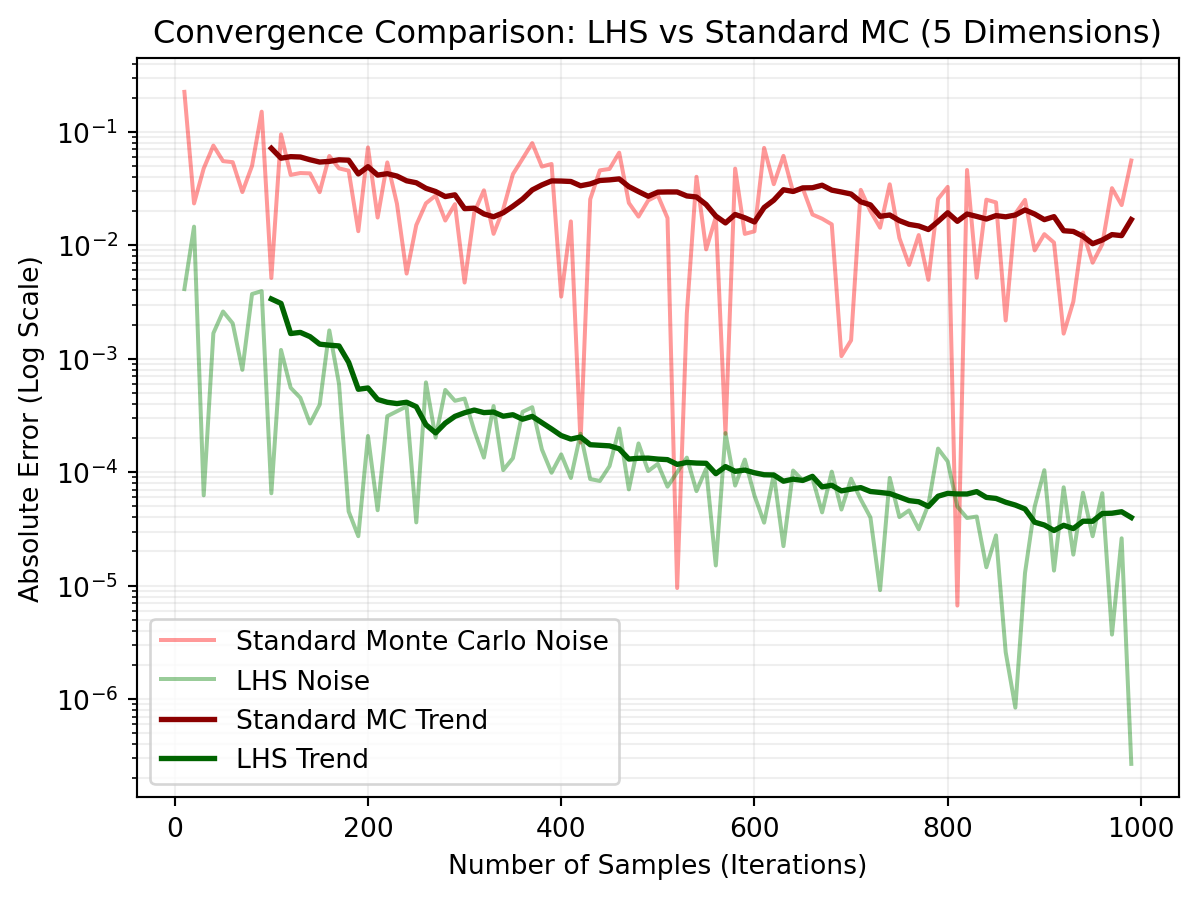
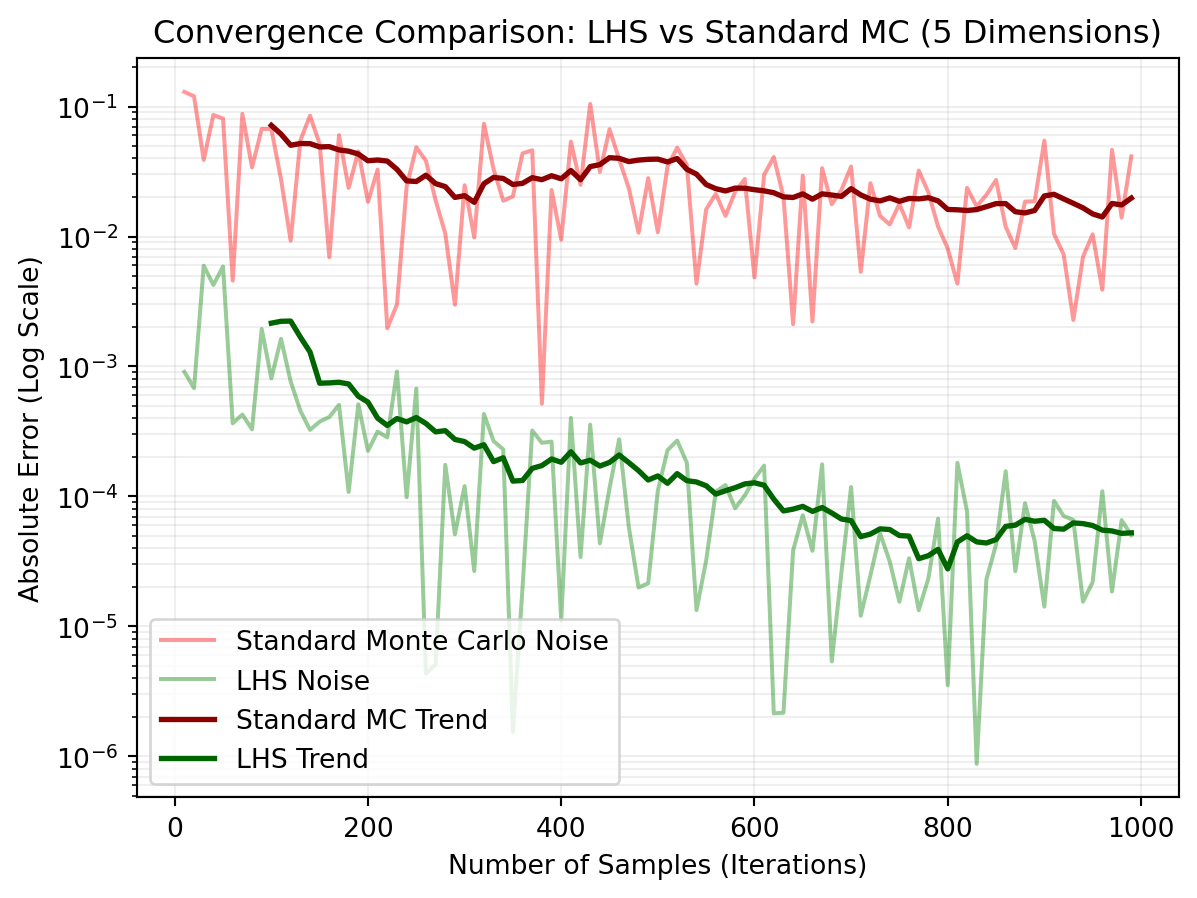
Started chapter on discrete events

diff --git a/_book/monte_carlo.html b/_book/monte_carlo.html
@@ -368,7 +368,7 @@ Figure&nbsp;3.1: Example of Monte-Carlo simulation to calculate <span class="mat
 </figure>
 </div>
 <p>Let’s use some code to make this more concrete:</p>
-<div id="07b7b86e" class="cell" data-execution_count="1">
+<div id="120f2f89" class="cell" data-execution_count="1">
 <div class="code-copy-outer-scaffold"><div class="sourceCode cell-code" id="cb1"><pre class="sourceCode python code-with-copy"><code class="sourceCode python"><span id="cb1-1"><a href="#cb1-1" aria-hidden="true" tabindex="-1"></a><span class="im">import</span> random</span>
 <span id="cb1-2"><a href="#cb1-2" aria-hidden="true" tabindex="-1"></a><span class="im">import</span> math</span>
 <span id="cb1-3"><a href="#cb1-3" aria-hidden="true" tabindex="-1"></a></span>
@@ -398,8 +398,8 @@ Figure&nbsp;3.1: Example of Monte-Carlo simulation to calculate <span class="mat
 <span id="cb1-27"><a href="#cb1-27" aria-hidden="true" tabindex="-1"></a>N <span class="op">=</span> <span class="dv">100000</span>  <span class="co"># 100,000 darts</span></span>
 <span id="cb1-28"><a href="#cb1-28" aria-hidden="true" tabindex="-1"></a>estimated_pi <span class="op">=</span> estimate_pi_monte_carlo(N)</span>
 <span id="cb1-29"><a href="#cb1-29" aria-hidden="true" tabindex="-1"></a>estimated_pi</span></code></pre></div><button title="Copy to Clipboard" class="code-copy-button"><i class="bi"></i></button></div>
-<div class="cell-output cell-output-display" data-execution_count="71">
-<pre><code>3.1516</code></pre>
+<div class="cell-output cell-output-display" data-execution_count="1">
+<pre><code>3.14468</code></pre>
 </div>
 </div>
 <p>In this code, we make use of the modeling fact that points <span class="math inline">\((x,y)\)</span> inside of the circle satisfy <span class="math inline">\(x^2+y^2\le 1\)</span>.</p>
@@ -504,7 +504,7 @@ s=\sqrt{\frac{1}{n-1}\sum_{i=1}^n (X_i - \bar{X}_n)}
 CI=\bar{X}_n \pm \left(z_{\alpha/2}\times\frac{s}{\sqrt{n}}\right)
 \]</span></p>
 <p>where <span class="math inline">\(z_{\alpha/2}\)</span> represents the <span class="math inline">\(\alpha/2\)</span>-level quantile of the standard normal distribution. As an example, consider the following implementation for the estimate of <span class="math inline">\(\pi\)</span> using Python code:</p>
-<div id="3a2639ee" class="cell" data-execution_count="2">
+<div id="b5e1dad9" class="cell" data-execution_count="2">
 <div class="code-copy-outer-scaffold"><div class="sourceCode cell-code" id="cb3"><pre class="sourceCode python code-with-copy"><code class="sourceCode python"><span id="cb3-1"><a href="#cb3-1" aria-hidden="true" tabindex="-1"></a><span class="im">import</span> numpy <span class="im">as</span> np</span>
 <span id="cb3-2"><a href="#cb3-2" aria-hidden="true" tabindex="-1"></a><span class="im">import</span> scipy.stats <span class="im">as</span> stats</span>
 <span id="cb3-3"><a href="#cb3-3" aria-hidden="true" tabindex="-1"></a></span>
@@ -535,8 +535,8 @@ CI=\bar{X}_n \pm \left(z_{\alpha/2}\times\frac{s}{\sqrt{n}}\right)
 <span id="cb3-28"><a href="#cb3-28" aria-hidden="true" tabindex="-1"></a><span class="bu">print</span>(<span class="ss">f"Estimate: </span><span class="sc">{</span>mu<span class="sc">:.4f}</span><span class="ss">"</span>)</span>
 <span id="cb3-29"><a href="#cb3-29" aria-hidden="true" tabindex="-1"></a><span class="bu">print</span>(<span class="ss">f"95% CI:   [</span><span class="sc">{</span>lower<span class="sc">:.4f}</span><span class="ss">, </span><span class="sc">{</span>upper<span class="sc">:.4f}</span><span class="ss">]"</span>)</span></code></pre></div><button title="Copy to Clipboard" class="code-copy-button"><i class="bi"></i></button></div>
 <div class="cell-output cell-output-stdout">
-<pre><code>Estimate: 3.1468
-95% CI:   [3.1147, 3.1789]</code></pre>
+<pre><code>Estimate: 3.1272
+95% CI:   [3.0948, 3.1596]</code></pre>
 </div>
 </div>
 </section>
@@ -583,7 +583,7 @@ I=\int_0^1 e^{x^2} dx
 \int_0^1 (1+x^2)dx = \left[x+\frac{x^3}{3}\right]_0^1=1+\frac{1}{3}=1.3333\dots
 \]</span></p>
 <p>We will now estimate both quantities in the same loop to calculate the controlled estimate.</p>
-<div id="e5a8cb76" class="cell" data-execution_count="3">
+<div id="f82ba7fe" class="cell" data-execution_count="3">
 <div class="code-copy-outer-scaffold"><div class="sourceCode cell-code" id="cb5"><pre class="sourceCode python code-with-copy"><code class="sourceCode python"><span id="cb5-1"><a href="#cb5-1" aria-hidden="true" tabindex="-1"></a><span class="im">import</span> numpy <span class="im">as</span> np</span>
 <span id="cb5-2"><a href="#cb5-2" aria-hidden="true" tabindex="-1"></a><span class="im">import</span> matplotlib.pyplot <span class="im">as</span> plt</span>
 <span id="cb5-3"><a href="#cb5-3" aria-hidden="true" tabindex="-1"></a></span>
@@ -620,7 +620,7 @@ I=\int_0^1 e^{x^2} dx
 <span id="cb5-34"><a href="#cb5-34" aria-hidden="true" tabindex="-1"></a>    }</span></code></pre></div><button title="Copy to Clipboard" class="code-copy-button"><i class="bi"></i></button></div>
 </div>
 <p>Let’s now run the code for 10000 iterations and compare the results:</p>
-<div id="31e66a0c" class="cell" data-execution_count="4">
+<div id="3ca66f2e" class="cell" data-execution_count="4">
 <div class="code-copy-outer-scaffold"><div class="sourceCode cell-code" id="cb6"><pre class="sourceCode python code-with-copy"><code class="sourceCode python"><span id="cb6-1"><a href="#cb6-1" aria-hidden="true" tabindex="-1"></a>N <span class="op">=</span> <span class="dv">10000</span></span>
 <span id="cb6-2"><a href="#cb6-2" aria-hidden="true" tabindex="-1"></a>results <span class="op">=</span> simulation_control_variates(N)</span>
 <span id="cb6-3"><a href="#cb6-3" aria-hidden="true" tabindex="-1"></a></span>
@@ -643,14 +643,14 @@ I=\int_0^1 e^{x^2} dx
 <div class="cell-output cell-output-stdout">
 <pre><code>--- Results with N=10,000 ---
 True Value:               1.462652
-Naive MC Estimate:        1.461851 (Error: 0.000800)
-Control Variate Estimate: 1.462823 (Error: 0.000171)
+Naive MC Estimate:        1.467357 (Error: 0.004705)
+Control Variate Estimate: 1.461978 (Error: 0.000674)
 
 --- Variance Analysis ---
-Correlation (X, Y):       0.9915
-Naive Variance:           0.225745
-CV Variance:              0.003822
-Variance Reduction:       59.1x lower variance</code></pre>
+Correlation (X, Y):       0.9914
+Naive Variance:           0.224994
+CV Variance:              0.003840
+Variance Reduction:       58.6x lower variance</code></pre>
 </div>
 </div>
 <p>As can be seen, the variance reduction achieved by the control variates method is in this case around 60x, which means that running 10,000 iterations using the control variates method is <em>as good as running classical MC with 600,000 iterations</em>.</p>
@@ -676,7 +676,7 @@ E_p[f(x)]=\int f(x)p(x)dx
 \hat{I}=\frac{1}{n}\sum_{i=1}^n f(x_i)\cdot\frac{p(x_i)}{q(x_i)}=\frac{1}{n}\sum_{i=1}^n w_i f(x_i)
 \tag{3.8}\]</span></span></p>
 <p>Note that our samples now come from <span class="math inline">\(q(x)\)</span> instead of <span class="math inline">\(p(x)\)</span> (because we sample from the biased distribution). Let’s now consider as an example a five-sigma event under a standard normal distribution governed by the probability <span class="math inline">\(P(X&gt;5)\)</span>, where the true probability is about <span class="math inline">\(2.87\times 10^{-7}\)</span>. In the real world, the true probability distribution is <span class="math inline">\(N(0,1)\)</span>. Now we can sample from a biased distribution by moving the mean: <span class="math inline">\(N(5,1)\)</span>. In this distribution, events <span class="math inline">\(X&gt;5\)</span> happen roughly 50% of the time.</p>
-<div id="676654ce" class="cell" data-execution_count="5">
+<div id="c9c938e9" class="cell" data-execution_count="5">
 <div class="code-copy-outer-scaffold"><div class="sourceCode cell-code" id="cb8"><pre class="sourceCode python code-with-copy"><code class="sourceCode python"><span id="cb8-1"><a href="#cb8-1" aria-hidden="true" tabindex="-1"></a><span class="im">import</span> numpy <span class="im">as</span> np</span>
 <span id="cb8-2"><a href="#cb8-2" aria-hidden="true" tabindex="-1"></a><span class="im">import</span> scipy.stats <span class="im">as</span> stats</span>
 <span id="cb8-3"><a href="#cb8-3" aria-hidden="true" tabindex="-1"></a><span class="im">import</span> matplotlib.pyplot <span class="im">as</span> plt</span>
@@ -708,7 +708,7 @@ E_p[f(x)]=\int f(x)p(x)dx
 <span id="cb8-29"><a href="#cb8-29" aria-hidden="true" tabindex="-1"></a>    <span class="cf">return</span> prob_naive, var_naive, prob_is, var_is</span></code></pre></div><button title="Copy to Clipboard" class="code-copy-button"><i class="bi"></i></button></div>
 </div>
 <p>In this code, we compare the probability estimates and the variances obtained by standard MC and importance sampling.</p>
-<div id="b7ffe756" class="cell" data-execution_count="6">
+<div id="286de8cb" class="cell" data-execution_count="6">
 <div class="code-copy-outer-scaffold"><div class="sourceCode cell-code" id="cb9"><pre class="sourceCode python code-with-copy"><code class="sourceCode python"><span id="cb9-1"><a href="#cb9-1" aria-hidden="true" tabindex="-1"></a>N <span class="op">=</span> <span class="dv">10000</span> <span class="co"># Only 10,000 samples (Small for a rare event!)</span></span>
 <span id="cb9-2"><a href="#cb9-2" aria-hidden="true" tabindex="-1"></a>target <span class="op">=</span> <span class="dv">5</span></span>
 <span id="cb9-3"><a href="#cb9-3" aria-hidden="true" tabindex="-1"></a></span>
@@ -732,8 +732,8 @@ E_p[f(x)]=\int f(x)p(x)dx
 True Probability: 0.0000002867
 Naive MC Estimate: 0.0000000000
 Naive Variance:    0.0000000000 (Likely zero if no hits occurred)
-Imp. Samp Estimate:0.0000002871
-Imp. Samp Variance:0.00000000000000004675
+Imp. Samp Estimate:0.0000002886
+Imp. Samp Variance:0.00000000000000004709
 Naive method failed completely (0 hits). Importance Sampling is infinitely better here.</code></pre>
 </div>
 </div>
@@ -787,7 +787,7 @@ Naive method failed completely (0 hits). Importance Sampling is infinitely bette
 <p>In summary, stratified sampling using proportional strata is always equal to or better than standard sampling because it eliminates the variance caused by the variability in sampling proportions across strata with different means.</p>
 <p><strong>Example</strong></p>
 <p>As an example, let’s integrate <span class="math inline">\(f(x)=e^x\)</span> in the interval <span class="math inline">\([0,1]\)</span>. For this, we will define <span class="math inline">\(H\)</span> equally-spaced strata in this interval.</p>
-<div id="c3cabb95" class="cell" data-execution_count="7">
+<div id="55f4fd0e" class="cell" data-execution_count="7">
 <div class="code-copy-outer-scaffold"><div class="sourceCode cell-code" id="cb11"><pre class="sourceCode python code-with-copy"><code class="sourceCode python"><span id="cb11-1"><a href="#cb11-1" aria-hidden="true" tabindex="-1"></a><span class="im">import</span> numpy <span class="im">as</span> np</span>
 <span id="cb11-2"><a href="#cb11-2" aria-hidden="true" tabindex="-1"></a><span class="im">import</span> matplotlib.pyplot <span class="im">as</span> plt</span>
 <span id="cb11-3"><a href="#cb11-3" aria-hidden="true" tabindex="-1"></a></span>
@@ -808,7 +808,7 @@ Naive method failed completely (0 hits). Importance Sampling is infinitely bette
 <span id="cb11-18"><a href="#cb11-18" aria-hidden="true" tabindex="-1"></a>    <span class="cf">return</span> est_naive, est_stratified</span></code></pre></div><button title="Copy to Clipboard" class="code-copy-button"><i class="bi"></i></button></div>
 </div>
 <p>We now run the experiment multiple times to determine the variance of the method. Because stratified samples are not iid, we need to repeat the experiment to get an estimate of its variance:</p>
-<div id="b7da89b5" class="cell" data-execution_count="8">
+<div id="02d245d0" class="cell" data-execution_count="8">
 <div class="code-copy-outer-scaffold"><div class="sourceCode cell-code" id="cb12"><pre class="sourceCode python code-with-copy"><code class="sourceCode python"><span id="cb12-1"><a href="#cb12-1" aria-hidden="true" tabindex="-1"></a>experiments <span class="op">=</span> <span class="dv">1000</span></span>
 <span id="cb12-2"><a href="#cb12-2" aria-hidden="true" tabindex="-1"></a>N <span class="op">=</span> <span class="dv">100</span> <span class="co"># Samples per experiment</span></span>
 <span id="cb12-3"><a href="#cb12-3" aria-hidden="true" tabindex="-1"></a></span>
@@ -862,10 +862,10 @@ Naive method failed completely (0 hits). Importance Sampling is infinitely bette
 <div class="cell-output cell-output-stdout">
 <pre><code>True Value: 1.718282
 ------------------------------
-Naive MC Variance (across 1000 runs):      0.00233631
-Stratified MC Variance (across 1000 runs): 0.00000027
+Naive MC Variance (across 1000 runs):      0.00247203
+Stratified MC Variance (across 1000 runs): 0.00000028
 ------------------------------
-Variance Reduction Factor: 8775.3x</code></pre>
+Variance Reduction Factor: 8754.6x</code></pre>
 </div>
 <div class="cell-output cell-output-display">
 <div>
@@ -890,7 +890,7 @@ Variance Reduction Factor: 8775.3x</code></pre>
 <li>Based on these permutations, we assign the intervals to the samples.</li>
 <li>To avoid each sample to be exactly at the center, we add a random jitter to each point.</li>
 </ol>
-<div id="c5b3eecf" class="cell" data-execution_count="9">
+<div id="dfb6d4cf" class="cell" data-execution_count="9">
 <div class="code-copy-outer-scaffold"><div class="sourceCode cell-code" id="cb14"><pre class="sourceCode python code-with-copy"><code class="sourceCode python"><span id="cb14-1"><a href="#cb14-1" aria-hidden="true" tabindex="-1"></a><span class="im">import</span> numpy <span class="im">as</span> np</span>
 <span id="cb14-2"><a href="#cb14-2" aria-hidden="true" tabindex="-1"></a><span class="im">import</span> matplotlib.pyplot <span class="im">as</span> plt</span>
 <span id="cb14-3"><a href="#cb14-3" aria-hidden="true" tabindex="-1"></a></span>
@@ -907,7 +907,7 @@ Variance Reduction Factor: 8775.3x</code></pre>
 <span id="cb14-14"><a href="#cb14-14" aria-hidden="true" tabindex="-1"></a>    <span class="cf">return</span> samples</span></code></pre></div><button title="Copy to Clipboard" class="code-copy-button"><i class="bi"></i></button></div>
 </div>
 <p>In two dimensions, this would look like the following:</p>
-<div id="2a5e79af" class="cell" data-execution_count="10">
+<div id="5646b687" class="cell" data-execution_count="10">
 <div class="code-copy-outer-scaffold"><div class="sourceCode cell-code" id="cb15"><pre class="sourceCode python code-with-copy"><code class="sourceCode python"><span id="cb15-1"><a href="#cb15-1" aria-hidden="true" tabindex="-1"></a>N <span class="op">=</span> <span class="dv">10</span> <span class="co"># 10 samples</span></span>
 <span id="cb15-2"><a href="#cb15-2" aria-hidden="true" tabindex="-1"></a>D <span class="op">=</span> <span class="dv">2</span>  <span class="co"># 2 dimensions</span></span>
 <span id="cb15-3"><a href="#cb15-3" aria-hidden="true" tabindex="-1"></a></span>
@@ -955,7 +955,7 @@ Variance Reduction Factor: 8775.3x</code></pre>
 f(\mathbf{x})=\sum_{i=1}^5 x_i^2
 \]</span></p>
 <p>in the interval <span class="math inline">\([-1,1]\)</span> for each dimension <span class="math inline">\(x_i\)</span>. For this, we will use the standard latin hypersquare sampling implementation of the SciPy library <code>scipy.stats.qmc</code>.</p>
-<div id="41cc5bda" class="cell" data-execution_count="11">
+<div id="253c7c98" class="cell" data-execution_count="11">
 <div class="code-copy-outer-scaffold"><div class="sourceCode cell-code" id="cb16"><pre class="sourceCode python code-with-copy"><code class="sourceCode python"><span id="cb16-1"><a href="#cb16-1" aria-hidden="true" tabindex="-1"></a><span class="im">import</span> numpy <span class="im">as</span> np</span>
 <span id="cb16-2"><a href="#cb16-2" aria-hidden="true" tabindex="-1"></a><span class="im">import</span> matplotlib.pyplot <span class="im">as</span> plt</span>
 <span id="cb16-3"><a href="#cb16-3" aria-hidden="true" tabindex="-1"></a><span class="im">from</span> scipy.stats <span class="im">import</span> qmc</span>
@@ -986,7 +986,7 @@ f(\mathbf{x})=\sum_{i=1}^5 x_i^2
 <span id="cb16-28"><a href="#cb16-28" aria-hidden="true" tabindex="-1"></a>    errors_lhs.append(<span class="bu">abs</span>(lhs_estimate <span class="op">-</span> true_mean))</span></code></pre></div><button title="Copy to Clipboard" class="code-copy-button"><i class="bi"></i></button></div>
 </div>
 <p>Note that the <code>LatinHypercube</code> sampler outputs samples in the interval <span class="math inline">\([0,1]\)</span> which need so be scaled to <span class="math inline">\([-1,1]\)</span> using the scaler <code>qmc.scale</code>. Let’s now visualize the results:</p>
-<div id="062e9ae1" class="cell" data-execution_count="12">
+<div id="44fd1750" class="cell" data-execution_count="12">
 <div class="code-copy-outer-scaffold"><div class="sourceCode cell-code" id="cb17"><pre class="sourceCode python code-with-copy"><code class="sourceCode python"><span id="cb17-1"><a href="#cb17-1" aria-hidden="true" tabindex="-1"></a>plt.semilogy(sample_sizes, errors_mc, color<span class="op">=</span><span class="st">'red'</span>, alpha<span class="op">=</span><span class="fl">0.4</span>, label<span class="op">=</span><span class="st">'Standard Monte Carlo Noise'</span>)</span>
 <span id="cb17-2"><a href="#cb17-2" aria-hidden="true" tabindex="-1"></a>plt.semilogy(sample_sizes, errors_lhs, color<span class="op">=</span><span class="st">'green'</span>, alpha<span class="op">=</span><span class="fl">0.4</span>, label<span class="op">=</span><span class="st">'LHS Noise'</span>)</span>
 <span id="cb17-3"><a href="#cb17-3" aria-hidden="true" tabindex="-1"></a></span>
@@ -1020,9 +1020,9 @@ f(\mathbf{x})=\sum_{i=1}^5 x_i^2
 </div>
 <div class="cell-output cell-output-stdout">
 <pre><code>Final Error (N=990):
-Standard MC Error: 0.055892
-LHS Error:         0.000000
-Improvement Factor: 208123.0x more accurate</code></pre>
+Standard MC Error: 0.041301
+LHS Error:         0.000050
+Improvement Factor: 820.1x more accurate</code></pre>
 </div>
 </div>
 <p>In this plot, we have used a logarithmic scale on the <span class="math inline">\(y\)</span>-axis to better see small errors. Additionally, a trend line is provided which is the moving average of the errors. As can be seen, the LHS errors are clearly lower than the standard MC errors and the method is about 100x more accurate than standard MC using the same number of samples.</p>
@@ -1186,7 +1186,7 @@ T(x'|x)=\alpha(x'|x)\cdot q(x'|x)
 <p><strong>Example</strong></p>
 <p>Let’s sample from a bimodal distribution which is a mixture of two Gaussians. Without MCMC, classical algorithms would frequently get stuck in one peak or the other. For instance, <span class="math inline">\(\pi(x)=0.3 N(-2,1) +
 0.7 N(2,1)\)</span>.</p>
-<div id="5ed01c97" class="cell" data-execution_count="13">
+<div id="ec34eada" class="cell" data-execution_count="13">
 <div class="code-copy-outer-scaffold"><div class="sourceCode cell-code" id="cb19"><pre class="sourceCode python code-with-copy"><code class="sourceCode python"><span id="cb19-1"><a href="#cb19-1" aria-hidden="true" tabindex="-1"></a><span class="im">import</span> numpy <span class="im">as</span> np</span>
 <span id="cb19-2"><a href="#cb19-2" aria-hidden="true" tabindex="-1"></a><span class="im">import</span> matplotlib.pyplot <span class="im">as</span> plt</span>
 <span id="cb19-3"><a href="#cb19-3" aria-hidden="true" tabindex="-1"></a><span class="im">import</span> scipy.stats <span class="im">as</span> stats</span>
@@ -1234,7 +1234,7 @@ T(x'|x)=\alpha(x'|x)\cdot q(x'|x)
 <span id="cb19-45"><a href="#cb19-45" aria-hidden="true" tabindex="-1"></a>    <span class="cf">return</span> np.array(samples), accepted_count <span class="op">/</span> n_samples</span></code></pre></div><button title="Copy to Clipboard" class="code-copy-button"><i class="bi"></i></button></div>
 </div>
 <p>Now let’s run a simulation for 10,000 steps.</p>
-<div id="06357062" class="cell" data-execution_count="14">
+<div id="8936a608" class="cell" data-execution_count="14">
 <div class="code-copy-outer-scaffold"><div class="sourceCode cell-code" id="cb20"><pre class="sourceCode python code-with-copy"><code class="sourceCode python"><span id="cb20-1"><a href="#cb20-1" aria-hidden="true" tabindex="-1"></a>N <span class="op">=</span> <span class="dv">10000</span></span>
 <span id="cb20-2"><a href="#cb20-2" aria-hidden="true" tabindex="-1"></a>start_x <span class="op">=</span> <span class="dv">0</span></span>
 <span id="cb20-3"><a href="#cb20-3" aria-hidden="true" tabindex="-1"></a>step_size <span class="op">=</span> <span class="fl">2.0</span> </span>

diff --git a/_book/discrete_event.html b/_book/discrete_event.html
@@ -7,7 +7,7 @@
 <meta name="viewport" content="width=device-width, initial-scale=1.0, user-scalable=yes">
 
 
-<title>4&nbsp; Discrete events – Simulation and Optimization: A Model-Driven Approach</title>
+<title>4&nbsp; Discrete events and Queuing Theory – Simulation and Optimization: A Model-Driven Approach</title>
 <style>
 code{white-space: pre-wrap;}
 span.smallcaps{font-variant: small-caps;}
@@ -71,6 +71,35 @@ ul.task-list li input[type="checkbox"] {
   }
 }</script>
 
+  <script src="https://cdnjs.cloudflare.com/polyfill/v3/polyfill.min.js?features=es6"></script>
+  <script src="https://cdn.jsdelivr.net/npm/mathjax@3/es5/tex-chtml-full.js" type="text/javascript"></script>
+
+<script type="text/javascript">
+const typesetMath = (el) => {
+  if (window.MathJax) {
+    // MathJax Typeset
+    window.MathJax.typeset([el]);
+  } else if (window.katex) {
+    // KaTeX Render
+    var mathElements = el.getElementsByClassName("math");
+    var macros = [];
+    for (var i = 0; i < mathElements.length; i++) {
+      var texText = mathElements[i].firstChild;
+      if (mathElements[i].tagName == "SPAN" && texText && texText.data) {
+        window.katex.render(texText.data, mathElements[i], {
+          displayMode: mathElements[i].classList.contains('display'),
+          throwOnError: false,
+          macros: macros,
+          fleqn: false
+        });
+      }
+    }
+  }
+}
+window.Quarto = {
+  typesetMath
+};
+</script>
 
 </head>
 
@@ -83,7 +112,7 @@ ul.task-list li input[type="checkbox"] {
       <button type="button" class="quarto-btn-toggle btn" data-bs-toggle="collapse" role="button" data-bs-target=".quarto-sidebar-collapse-item" aria-controls="quarto-sidebar" aria-expanded="false" aria-label="Toggle sidebar navigation" onclick="if (window.quartoToggleHeadroom) { window.quartoToggleHeadroom(); }">
         <i class="bi bi-layout-text-sidebar-reverse"></i>
       </button>
-        <nav class="quarto-page-breadcrumbs" aria-label="breadcrumb"><ol class="breadcrumb"><li class="breadcrumb-item"><a href="./simulation_basics.html">PART I: SIMULATION</a></li><li class="breadcrumb-item"><a href="./discrete_event.html"><span class="chapter-number">4</span>&nbsp; <span class="chapter-title">Discrete events</span></a></li></ol></nav>
+        <nav class="quarto-page-breadcrumbs" aria-label="breadcrumb"><ol class="breadcrumb"><li class="breadcrumb-item"><a href="./simulation_basics.html">PART I: SIMULATION</a></li><li class="breadcrumb-item"><a href="./discrete_event.html"><span class="chapter-number">4</span>&nbsp; <span class="chapter-title">Discrete events and Queuing Theory</span></a></li></ol></nav>
         <a class="flex-grow-1" role="navigation" data-bs-toggle="collapse" data-bs-target=".quarto-sidebar-collapse-item" aria-controls="quarto-sidebar" aria-expanded="false" aria-label="Toggle sidebar navigation" onclick="if (window.quartoToggleHeadroom) { window.quartoToggleHeadroom(); }">      
         </a>
       <button type="button" class="btn quarto-search-button" aria-label="Search" onclick="window.quartoOpenSearch();">
@@ -152,7 +181,7 @@ ul.task-list li input[type="checkbox"] {
           <li class="sidebar-item">
   <div class="sidebar-item-container"> 
   <a href="./discrete_event.html" class="sidebar-item-text sidebar-link active">
- <span class="menu-text"><span class="chapter-number">4</span>&nbsp; <span class="chapter-title">Discrete events</span></span></a>
+ <span class="menu-text"><span class="chapter-number">4</span>&nbsp; <span class="chapter-title">Discrete events and Queuing Theory</span></span></a>
   </div>
 </li>
           <li class="sidebar-item">
@@ -215,15 +244,21 @@ ul.task-list li input[type="checkbox"] {
 </nav>
 <div id="quarto-sidebar-glass" class="quarto-sidebar-collapse-item" data-bs-toggle="collapse" data-bs-target=".quarto-sidebar-collapse-item"></div>
 <!-- margin-sidebar -->
-    <div id="quarto-margin-sidebar" class="sidebar margin-sidebar zindex-bottom">
-        
+    <div id="quarto-margin-sidebar" class="sidebar margin-sidebar">
+        <nav id="TOC" role="doc-toc" class="toc-active">
+    <h2 id="toc-title">Table of contents</h2>
+   
+  <ul>
+  <li><a href="#introduction" id="toc-introduction" class="nav-link active" data-scroll-target="#introduction"><span class="header-section-number">4.1</span> Introduction</a></li>
+  </ul>
+</nav>
     </div>
 <!-- main -->
 <main class="content" id="quarto-document-content">
 
-<header id="title-block-header" class="quarto-title-block default"><nav class="quarto-page-breadcrumbs quarto-title-breadcrumbs d-none d-lg-block" aria-label="breadcrumb"><ol class="breadcrumb"><li class="breadcrumb-item"><a href="./simulation_basics.html">PART I: SIMULATION</a></li><li class="breadcrumb-item"><a href="./discrete_event.html"><span class="chapter-number">4</span>&nbsp; <span class="chapter-title">Discrete events</span></a></li></ol></nav>
+<header id="title-block-header" class="quarto-title-block default"><nav class="quarto-page-breadcrumbs quarto-title-breadcrumbs d-none d-lg-block" aria-label="breadcrumb"><ol class="breadcrumb"><li class="breadcrumb-item"><a href="./simulation_basics.html">PART I: SIMULATION</a></li><li class="breadcrumb-item"><a href="./discrete_event.html"><span class="chapter-number">4</span>&nbsp; <span class="chapter-title">Discrete events and Queuing Theory</span></a></li></ol></nav>
 <div class="quarto-title">
-<h1 class="title"><span id="sec-discrete-events" class="quarto-section-identifier"><span class="chapter-number">4</span>&nbsp; <span class="chapter-title">Discrete events</span></span></h1>
+<h1 class="title"><span id="sec-discrete-events" class="quarto-section-identifier"><span class="chapter-number">4</span>&nbsp; <span class="chapter-title">Discrete events and Queuing Theory</span></span></h1>
 </div>
 
 
@@ -240,8 +275,22 @@ ul.task-list li input[type="checkbox"] {
 </header>
 
 
+<section id="introduction" class="level2" data-number="4.1">
+<h2 data-number="4.1" class="anchored" data-anchor-id="introduction"><span class="header-section-number">4.1</span> Introduction</h2>
+<p>In the previous chapters, we have considered mostly continuous simulation approaches. These approaches are well suited for situations where systems can be described using simple equations. However, there are situations that are either too complex to be modeled in such a way, or too expensive or dangerous to experiment with in the real world. Whether it is a hospital emergency room attempting to reduce patient wait times, a manufacturing plant trying to optimize throughput, or a computer network managing data packets, these systems share a common trait: they change state at specific, irregular points in time.</p>
+<p>Unlike other modeling approaches that view the world as a continuous flow or a static snapshot, <strong>Discrete Event Simulation (DES)</strong> views the world as a sequence of distinct events—arrivals, departures, breakdowns, and completions—that occur at specific instants, triggering changes in the system’s state. DES becomes necessary when a system exhibits the following properties:</p>
+<ul>
+<li>The state of the system <strong>evolves over time</strong>. A decision made at time <span class="math inline">\(t\)</span> affects the resources available at time <span class="math inline">\(t+1\)</span>.</li>
+<li>Entities (like customers, parts, data) compete for <strong>limited resources</strong> (counters, machines, bandwidth) leading to the formation of <em>queues</em>.</li>
+<li>The system is driven by <strong>randomness</strong>. Customers do not arrive at fixed intervals; machines do not take the exact same amount of time to process every part.</li>
+</ul>
+<p>We utilize DES when analytical solutions are mathematically intractable. For example, calculating the average wait time in a bank with one line and one teller is a simple mathematical exercise. However, if that bank has varying arrival rates depending on the time of day, tellers who take lunch breaks, and customers who may leave (balk) if the line is too long, the mathematical formulas break down. DES allows us to mimic this complex reality inside a computer to answer “What if?” questions without disrupting actual operations.</p>
+<p>Note that Monte Carlo simulation can be considered in general as <strong>static</strong>. It evaluates a problem at a single point in time or across a timeless dimension. For instance, estimating the value of <span class="math inline">\(\pi\)</span> by dropping distinct pins on a grid is a Monte Carlo experiment. It provides a probabilistic outcome of a specific scenario but does not model how that scenario evolves. By contrast, DES is <strong>dynamic</strong>, creating a history of the system operation over a duration.</p>
+<p>The mathematical foundation that represents the basis for DES is called <strong>Queuing Theory</strong>. It underpins the computational engine used by DES to solve complex simulation problems. Queuing Theory provides the analytical framework for understanding waiting lines. It offers exact mathematical formulas to predict performance measures such as server utilization or and average waiting times under specific, idealized assumptions (e.g., purely random arrivals and service times).</p>
+<p>In this chapter, we will introduce the fundamentals of Queuing Theory that will serve as a framework to understand the principles of DES. While Queuing Theory provides the “laws of physics” for the system at hand, DES provides the laboratory in which we experiment with those laws under complex, realistic conditions.</p>
 
 
+</section>
 
 </main> <!-- /main -->
 <script id="quarto-html-after-body" type="application/javascript">
